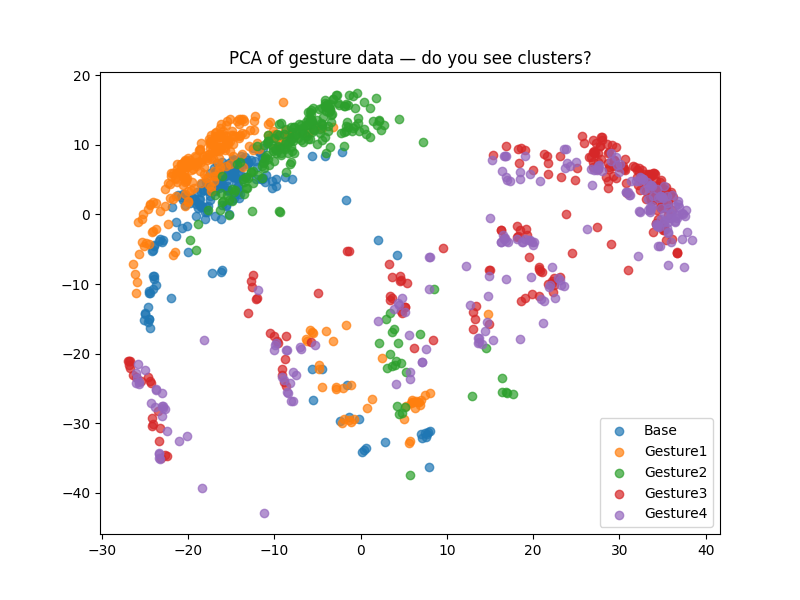
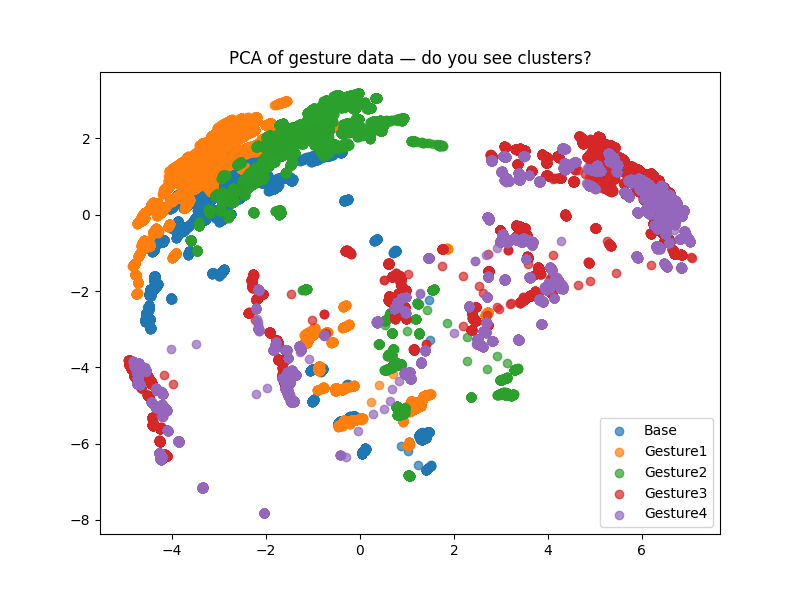
Finished model

diff --git a/gesture_ml/findModelOps.py b/gesture_ml/findModelOps.py
@@ -1,0 +1,9 @@
+import tensorflow as tf
+import sys
+
+model = tf.lite.Interpreter(model_path="gesture_model_int8.tflite")
+model.allocate_tensors()
+
+ops = model._get_ops_details()
+for op in ops:
+    print(op["op_name"])
